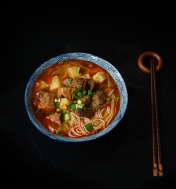
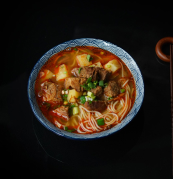
feat: 중식 음식 사진 추가 및 데이터 일부 변경

diff --git a/js/utils/data.js b/js/utils/data.js
@@ -1,6 +1,6 @@
 export const FOOD = Object.freeze({
   한식: '떡볶이, 쫄면, 김치찌개, 된장찌개, 잡채, 잔치국수, 김치볶음밥, 불고기, 비빔밥, 삼겹살, 갈비, 갈비찜, 청국장, 제육볶음, 족발, 보쌈, 삼계탕, 회덮밥, 감자탕, 전골, 부대찌개, 알밥, 고등어조림, 쌈밥, 칼국수',
-  중식: '짜장면, 짬뽕, 깐풍기, 볶음면, 동파육, 마파두부, 토마토 달걀볶음, 탕수육, 깐풍기, 고추잡채, 꽃빵만두, 양꼬치, 마라탕, 마라샹궈, 꿔바로우, 울면, 훠궈, 우육면',
+  중식: '짜장면, 짬뽕, 깐풍기, 볶음면, 동파육, 마파두부, 중화볶음밥, 탕수육, 고추잡채, 꽃빵만두, 양꼬치, 마라탕, 마라샹궈, 꿔바로우, 울면, 훠궈, 우육면',
   일식: '규동, 우동, 미소시루, 스시, 가츠동, 오니기리, 하이라이스, 라멘, 오코노미야끼, 소바, 규카츠, 스키야키, 텐동, 나베, 돈부리, 오므라이스, 벤토, 카레라이스',
   양식: '라자냐, 그라탱, 뇨끼, 끼슈, 스파게티, 피자, 파니니, 치킨, 돈까스, 스테이크, 필라프, 파스타, 퀘사디아, 부리또, 리조또, 샐러드',
   아시안:
